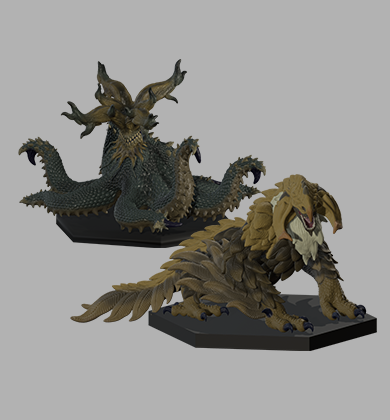
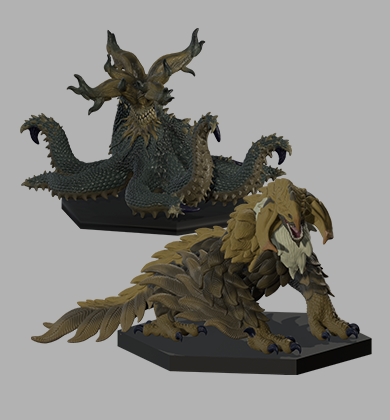
ver.2.0.1

Changed region(s): [[0.0308, 0.0619, 0.9846, 0.8976]]

diff --git a/css/standard_model.css b/css/standard_model.css
@@ -55,27 +55,20 @@ p{
   text-shadow: 0 2px 4px rgba(0, 0, 0, 1);
 }
 
+img{
+  width: 780px;
+}
+
 .message{
-  width: 600px;
-  line-height: 30px;
+  width: 780px;
+  line-height: 40px;
   text-shadow: 0 2px 4px rgba(0, 0, 0, 1);
-  font-weight: bold;
 }
-.contents_00{
-  width: 840px;
-  margin: 0 auto;
-  background-image: url("../background_img/standard_title_03.png");
-  padding-top: 40px;
-  padding-bottom: 80px;
-  padding-left: 60px;
-  font-family: Georgia, 'Times New Roman', Times, serif;
-  color: white;
-  border-top: 5px solid skyblue;
-}
+
 .contents_01{
   width: 840px;
   margin: 0 auto;
-  background-image: url("../background_img/standard_title_02.png");
+  background-color: #333333;
   padding-top: 40px;
   padding-bottom: 80px;
   padding-left: 60px;
@@ -86,24 +79,13 @@ p{
 .contents_02{
   width: 840px;
   margin: 0 auto;
-  background-image: url("../background_img/standard_title_01.png");
+  background-color: #333333;
   padding-top: 40px;
   padding-bottom: 80px;
   padding-left: 60px;
   font-family: Georgia, 'Times New Roman', Times, serif;
   color: white;
   border-top: 10px solid skyblue;
-}
-.contents_03{
-  width: 840px;
-  margin: 0 auto;
-  background-image: url("../background_img/title_03.png");
-  padding-top: 40px;
-  padding-bottom: 80px;
-  padding-left: 60px;
-  font-family: Georgia, 'Times New Roman', Times, serif;
-  color: white;
-  border-top: 5px solid green;
 }
 /*ーーーーーーーーーーーーーーーーーーーーーーーーーーー*/
 .work_link{
@@ -210,15 +192,12 @@ p{
     box-sizing: border-box !important; /* 枠線と余白を内側に含める */
   }
 
-  .contents_00{
-    width: 100% !important;        /* 750px固定から画面幅の90%に変更 */
-    max-width: 100% !important;
-    padding: 20px 15px !important;/* 左右50pxの余白を15pxに縮小 */
-    font-size: 15px !important;    /* スマホで見やすい文字サイズに */
-    line-height: 1.8 !important;  /* 行間を調整 */
-    box-sizing: border-box !important; /* 枠線と余白を内側に含める */
-    background-image: url("../background_img/standard_title_03_phone.png");
+  img{
+    width: 100%;
+    max-width: 100%;
+    padding:20px 15px ;
   }
+
   .contents_01{
     width: 100% !important;        /* 750px固定から画面幅の90%に変更 */
     max-width: 100% !important;
@@ -226,7 +205,6 @@ p{
     font-size: 15px !important;    /* スマホで見やすい文字サイズに */
     line-height: 1.8 !important;  /* 行間を調整 */
     box-sizing: border-box !important; /* 枠線と余白を内側に含める */
-    background-image: url("../background_img/standard_title_02_phone.png");
   }
   .contents_02{
     width: 100% !important;        /* 750px固定から画面幅の90%に変更 */
@@ -235,22 +213,14 @@ p{
     font-size: 15px !important;    /* スマホで見やすい文字サイズに */
     line-height: 1.8 !important;  /* 行間を調整 */
     box-sizing: border-box !important; /* 枠線と余白を内側に含める */
-    background-image: url("../background_img/standard_title_01_phone.png");
   }
-  .contents_03{
-    width: 100% !important;        /* 750px固定から画面幅の90%に変更 */
-    max-width: 100% !important;
-    padding: 20px 15px !important;/* 左右50pxの余白を15pxに縮小 */
-    font-size: 15px !important;    /* スマホで見やすい文字サイズに */
-    line-height: 1.8 !important;  /* 行間を調整 */
-    box-sizing: border-box !important; /* 枠線と余白を内側に含める */
-    background-image: url("../background_img/title_03_phone.png");
-  }
+
   p{
     font-size: 20px;
   }
   .message{
     width: 300px;
+    line-height: 25px;
   }
 
 

diff --git a/standard_model.html b/standard_model.html
@@ -47,14 +47,14 @@
   </div>
 
   <div class="slideshow-text">
-    <h3>- STANDARD MODEL X -</h3>
+    <h3>- STANDARD MODEL C -</h3>
     <p></p>
   </div>
 
   <!-- ★ここから下を <div class="main-content"> で囲む -->
   <div class="main-content">
 
-    <h2>ー　STANDARD MODEL Xとは　ー</h2>
+    <h2>ー　STANDARD MODEL Cとは　ー</h2>
 
     <div id="news">
       手軽なサイズ感を担保し、ハイクオリティな造形表現を目指したフィギュアモデルです。
@@ -66,20 +66,24 @@
     <div class="contents_01"> 
       <p>ー　Vol.02 陸に生きた頭足類　ー</p>
       <div class="message">
-      <br>本来、”水生生物として生きる彼らがもし陸上での活動に適応したらどうなるのか”
-      をコンセプトに製作しました。頭足類特有の触腕の表現にこだわった一作品です。
-      <br>●製作年月：2026/07（Re：2026/08）
-      <br>●販売価格：1000円
+        <img src="product_image/ground_octpus.png" alt="2" class="product">
+      <br>本来、”水生生物として生きる彼らがもし陸上での活動に適応したらどうなるのか”をコンセプトに製作しました。
+      蛸（頭足類）特有の触腕の表現には、特に力を入れました。
+      また、外見は蛸の知能の高さや生物としての未知性を感じられるようなものに仕上げています。
+      <br>・製作年月：２０２６.０７
+      <br>・販売価格：１０００円
       </div>
       <p class="work_link"><a href="">準備中</a></p>
     </div>
     <div class="contents_02"> 
       <p>ー　Vol.01 出立つ猛禽竜　ー</p>
       <div class="message">
-      <br>猛禽類を爬虫類とのハイブリッド生物として新たにデザインし、視力が退化したものの
-      その土地に根付く強靭な生物として表現することを目指しました。
-      <br>●製作年月：2026/03（Re：2026/08）
-      <br>●販売価格：1000円
+        <img src="product_image/eagle_wyvern.png" alt="1" class="product">
+      <br>猛禽類を爬虫類とのハイブリッド生物として新たにデザインしました。
+      竜という架空性がありながらも、外見や体色を含め、既存の鷲やトカゲを思わせるものとなっています。
+      視力が完全に退化しつつも、その土地に根付く強靭な生物として猛禽竜を新たな生物として描いています。
+      <br>・製作年月：２０２６.０３
+      <br>・販売価格：１０００円
       </div>
       <p class="work_link"><a href="">準備中</a></p>
     </div>

diff --git a/index.html b/index.html
@@ -70,7 +70,7 @@
       <p class="work_link"><a href="big_high_model.html">作品一覧へ</a></p>
     </div>-->
     <div class="contents_01"> 
-      <p>ー　STANDARD MODEL X　ー</p>
+      <p>ー　STANDARD MODEL C　ー</p>
       <div class="message">
       <br>手軽なサイズ感を担保し、ハイクオリティな造形表現を目指したフィギュアモデルです。
       比較的コレクションもしやすく、手に取るのにおすすめのシリーズです。

diff --git a/css/common.css b/css/common.css
@@ -3,7 +3,7 @@ html{
   text-size-adjust: 100%;
   margin: 0;
   padding: 0;
-  background-color: #333333;
+  background-color: black;
   min-height: 100vh;
 }
 
